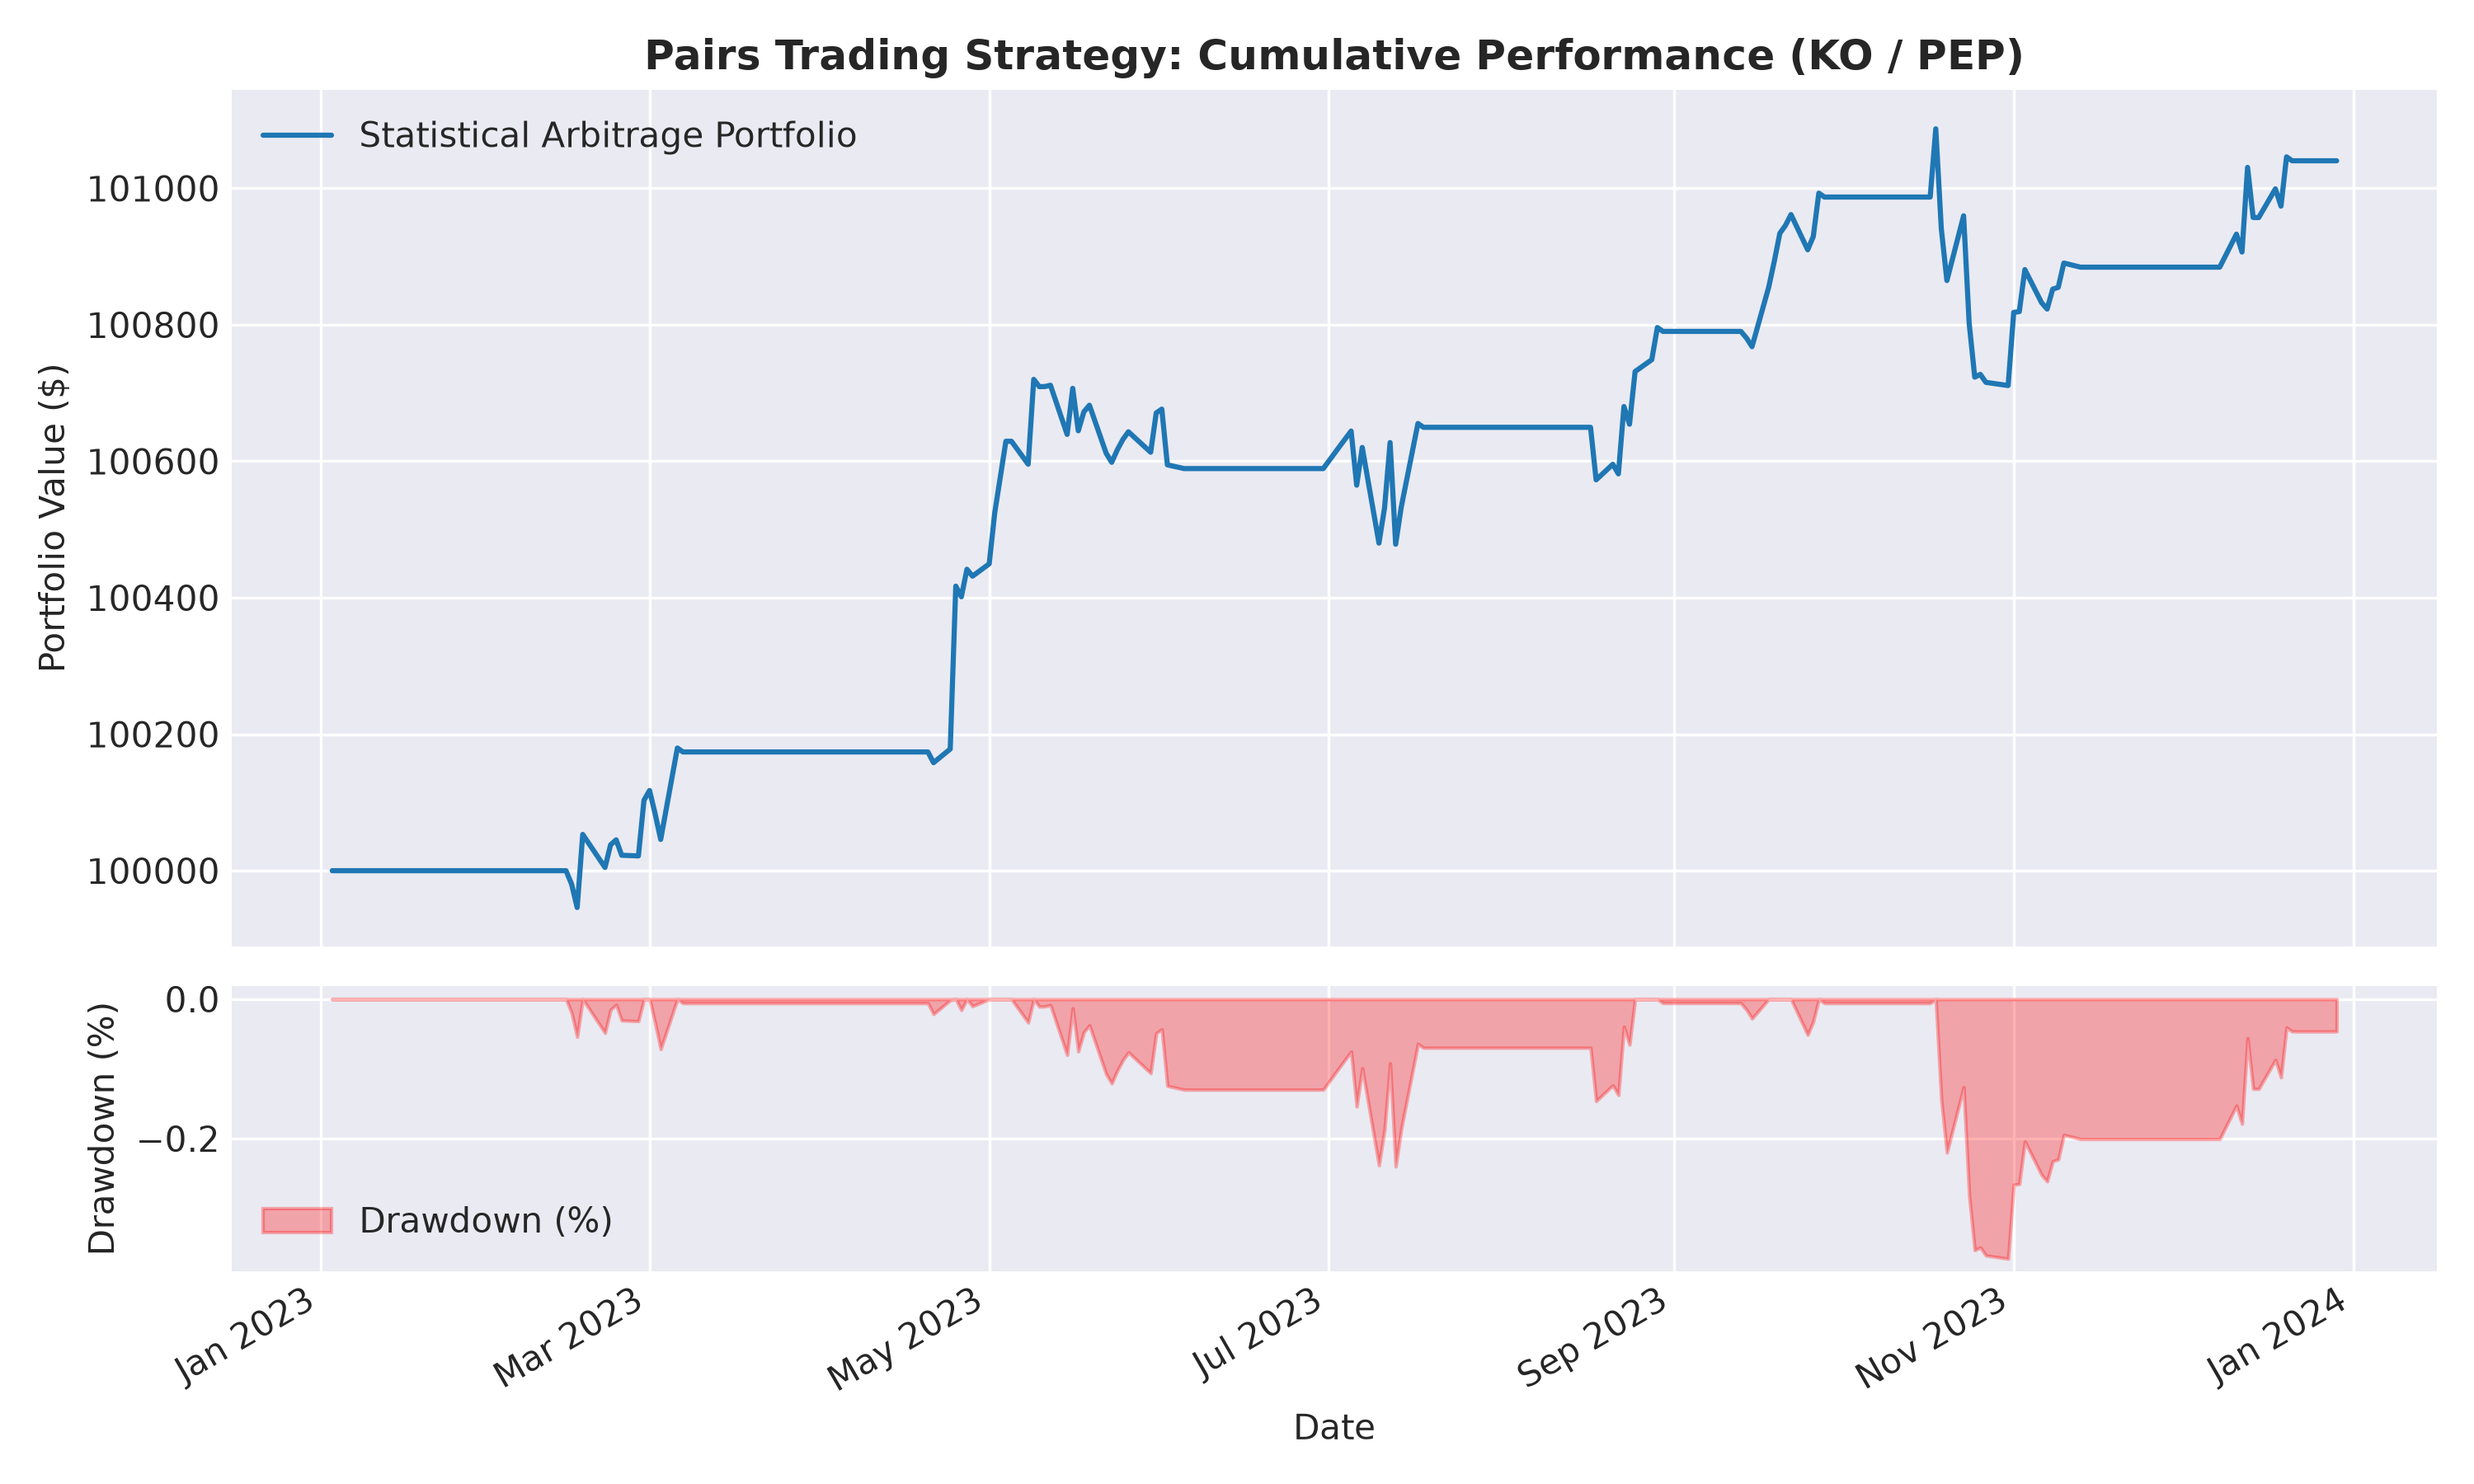
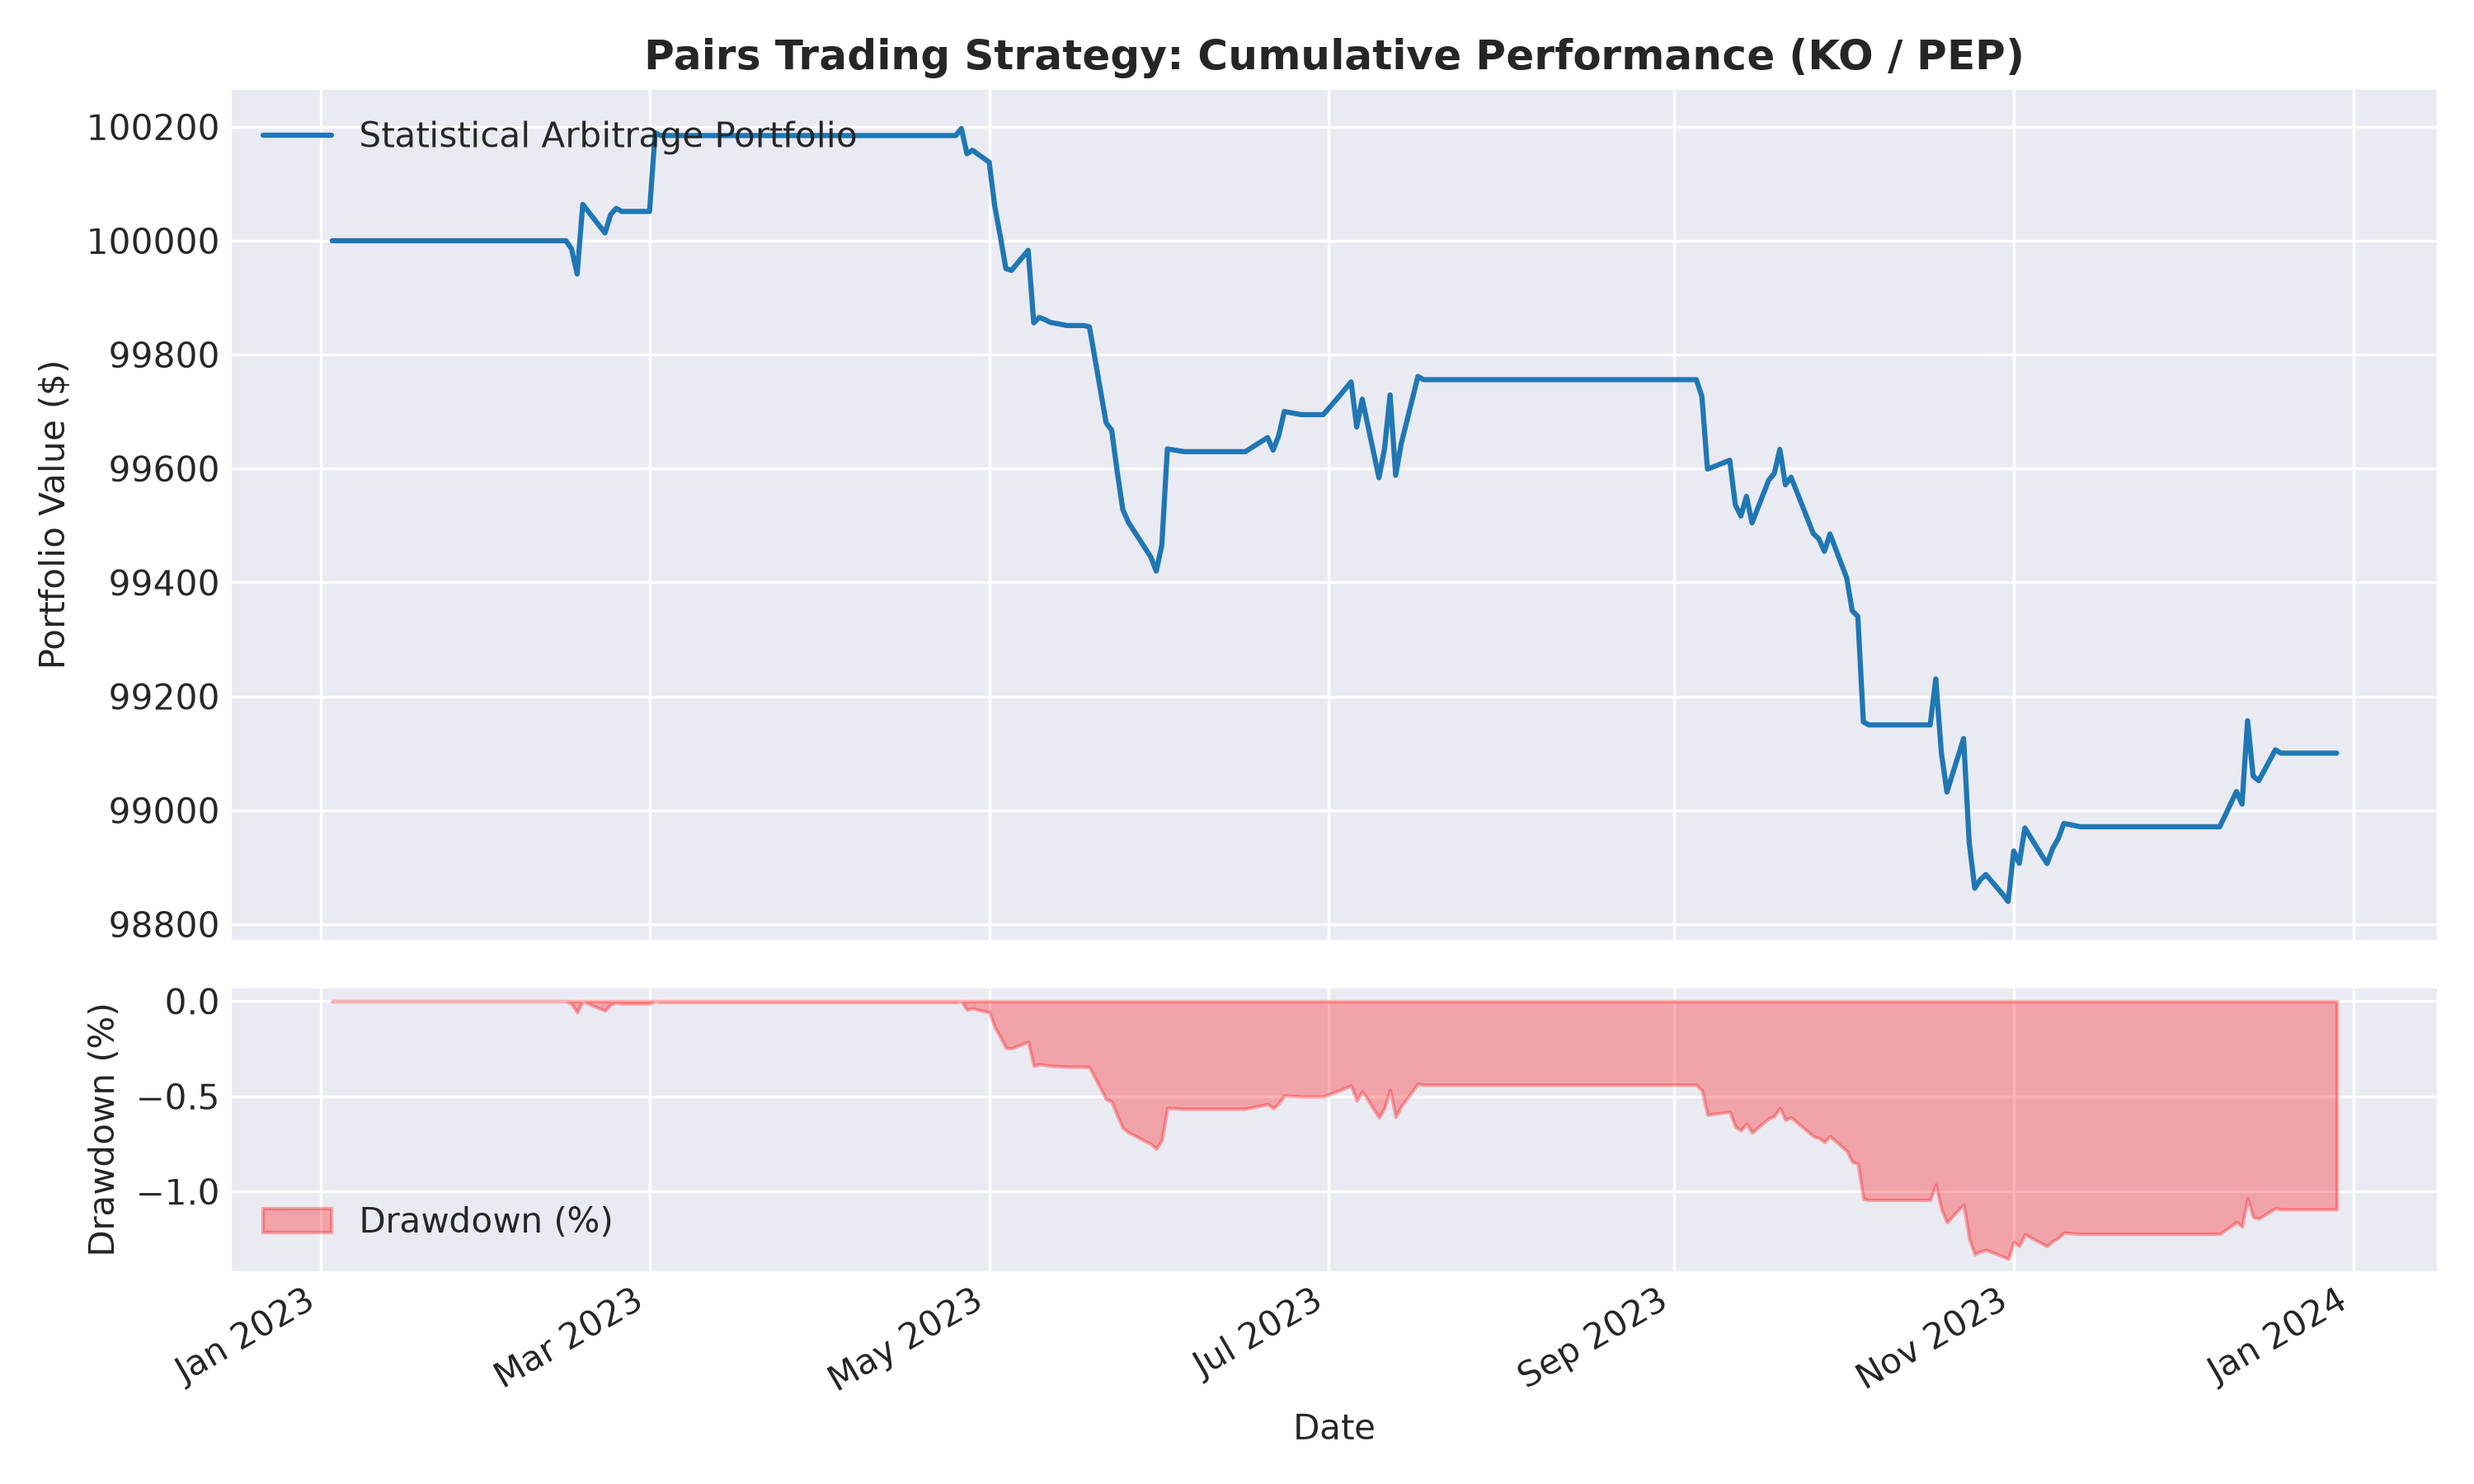
feat: integrate dynamic rolling OLS hedge ratio and short borrow accounting

diff --git a/strategy.py b/strategy.py
@@ -1,21 +1,11 @@
 import numpy as np
-import collections
-from dataclasses import dataclass
-from events import Event, MarketEvent
-
-@dataclass
-class SignalEvent(Event):
-    """Generated by the Strategy class to signal buy/sell orders."""
-    timestamp: str
-    symbol_pair: tuple
-    signal_type: str
-    z_score: float
-    type: str = "SIGNAL"
-
+import scipy.stats as stats
+from events import SignalEvent
 
 class PairsStatArbStrategy:
     """
-    Computes rolling Z-score between two assets (KO and PEP) and emits trading signals when thresholds are crossed.
+    Rolling OLS Dynamic Hedge Ratio Pairs Trading Strategy.
+    Calculates dynamic beta, spread, and rolling Z-score.
     """
     def __init__(self, events_queue, pair=('KO', 'PEP'), window=30, entry_z=2.0, exit_z=0.5):
         self.events_queue = events_queue
@@ -24,74 +14,62 @@ class PairsStatArbStrategy:
         self.entry_z = entry_z
         self.exit_z = exit_z
 
-        self.price_history = {pair[0]: collections.deque(maxlen=window),
-                              pair[1]: collections.deque(maxlen=window)}
+        self.price_history = {pair[0]: [], pair[1]: []}
+        self.history_timestamps = []
+        
         self.in_position = False
-        self.current_position = None  # 'LONG_PAIR' or 'SHORT_PAIR'
+        self.position_type = None  # 'LONG_PAIR' or 'SHORT_PAIR'
+        self.current_beta = 1.0
 
-    def calculate_signals(self, event: MarketEvent):
-        """Processes market data events to compute Z-Score and emit SignalEvents."""
-        if event.type != "MARKET":
-            return
+    def calculate_signals(self, market_event):
+        """Processes market data, calculates dynamic beta & spread Z-score, emits signals."""
+        for sym in self.pair:
+            if sym in market_event.data:
+                self.price_history[sym].append(market_event.data[sym]['close'])
+        
+        self.history_timestamps.append(market_event.timestamp)
 
-        # 1. Update price queues
-        for symbol in self.pair:
-            if symbol in event.data:
-                self.price_history[symbol].append(event.data[symbol]['close'])
-
-        # Wait until we have enough historical bars for rolling calculations
+        # Wait until we have enough lookback data
         if len(self.price_history[self.pair[0]]) < self.window:
             return
 
-        # 2. Calculate Spread (KO / PEP) and Z-Score
-        prices_a = np.array(self.price_history[self.pair[0]])
-        prices_b = np.array(self.price_history[self.pair[1]])
-        spreads = prices_a / prices_b
+        # Slice rolling window
+        prices_a = np.array(self.price_history[self.pair[0]][-self.window:])
+        prices_b = np.array(self.price_history[self.pair[1]][-self.window:])
 
-        current_spread = spreads[-1]
-        mean_spread = np.mean(spreads)
-        std_spread = np.std(spreads)
+        # 1. Rolling OLS Regression: Price_A = alpha + beta * Price_B
+        slope, intercept, _, _, _ = stats.linregress(prices_b, prices_a)
+        self.current_beta = slope
+
+        # 2. Compute Rolling Spread Series
+        spread_series = prices_a - (self.current_beta * prices_b)
+        current_spread = spread_series[-1]
+
+        # 3. Calculate Spread Rolling Mean & Std Dev
+        mean_spread = np.mean(spread_series)
+        std_spread = np.std(spread_series)
 
         if std_spread == 0:
             return
 
         z_score = (current_spread - mean_spread) / std_spread
+        timestamp = market_event.timestamp
 
-        # 3. Logic for Pair Entry & Exit Signals
+        # Signal Logic
         if not self.in_position:
-            if z_score > self.entry_z:
-                # Spread is too high -> Short asset A, Long asset B
-                signal = SignalEvent(
-                    timestamp=event.timestamp,
-                    symbol_pair=self.pair,
-                    signal_type="SHORT_PAIR",
-                    z_score=z_score
-                )
-                self.events_queue.put(signal)
+            if z_score <= -self.entry_z:
                 self.in_position = True
-                self.current_position = "SHORT_PAIR"
+                self.position_type = 'LONG_PAIR'
+                self.events_queue.put(SignalEvent(timestamp, self.pair, 'LONG_PAIR', z_score))
 
-            elif z_score < -self.entry_z:
-                # Spread is too low -> Long asset A, Short asset B
-                signal = SignalEvent(
-                    timestamp=event.timestamp,
-                    symbol_pair=self.pair,
-                    signal_type="LONG_PAIR",
-                    z_score=z_score
-                )
-                self.events_queue.put(signal)
+            elif z_score >= self.entry_z:
                 self.in_position = True
-                self.current_position = "LONG_PAIR"
+                self.position_type = 'SHORT_PAIR'
+                self.events_queue.put(SignalEvent(timestamp, self.pair, 'SHORT_PAIR', z_score))
 
         else:
-            # Mean Reversion Exit Check
+            # Exit on Mean Reversion
             if abs(z_score) < self.exit_z:
-                signal = SignalEvent(
-                    timestamp=event.timestamp,
-                    symbol_pair=self.pair,
-                    signal_type="EXIT",
-                    z_score=z_score
-                )
-                self.events_queue.put(signal)
                 self.in_position = False
-                self.current_position = None
+                self.position_type = None
+                self.events_queue.put(SignalEvent(timestamp, self.pair, 'EXIT', z_score))

diff --git a/portfolio.py b/portfolio.py
@@ -23,6 +23,11 @@ class Portfolio:
         
         self.equity_curve = []
 
+    def total_equity(self) -> float:
+        """Calculates total portfolio equity."""
+        position_value = sum(self.positions[sym] * self.latest_prices[sym] for sym in self.positions)
+        return self.current_cash + position_value
+
     def update_market_price(self, market_event):
         """Updates internal price cache, deducts daily borrow fees, and logs daily equity."""
         for symbol in market_event.data:
@@ -46,8 +51,8 @@ class Portfolio:
             "cash": self.current_cash
         })
 
-    def handle_signal(self, signal: SignalEvent):
-        """Translates strategy signals into market orders."""
+    def handle_signal(self, signal: SignalEvent, hedge_ratio: float = 1.0):
+        """Translates strategy signals into orders sized dynamically by hedge ratio (beta)."""
         stock_a, stock_b = signal.symbol_pair
         price_a = self.latest_prices[stock_a]
         price_b = self.latest_prices[stock_b]
@@ -55,8 +60,10 @@ class Portfolio:
         if price_a == 0 or price_b == 0:
             return
 
-        qty_a = int((self.allocation_per_trade / 2) / price_a)
-        qty_b = int((self.allocation_per_trade / 2) / price_b)
+        # Sizing Leg A based on capital allocation, sizing Leg B using dynamic beta
+        target_val_a = self.allocation_per_trade / 2.0
+        qty_a = max(1, int(target_val_a / price_a))
+        qty_b = max(1, int(qty_a * hedge_ratio))
 
         if signal.signal_type == "SHORT_PAIR":
             self.events_queue.put(OrderEvent(signal.timestamp, stock_a, "SELL", qty_a))
@@ -88,11 +95,6 @@ class Portfolio:
 
         self.total_commissions += fill.commission
         self.total_slippage += fill.slippage
-
-    def total_equity(self) -> float:
-        """Calculates total portfolio equity."""
-        position_value = sum(self.positions[sym] * self.latest_prices[sym] for sym in self.positions)
-        return self.current_cash + position_value
 
     def get_equity_df(self) -> pd.DataFrame:
         """Returns equity history as a DataFrame."""

diff --git a/main.py b/main.py
@@ -15,7 +15,7 @@ def run_backtest():
     portfolio = Portfolio(events, initial_capital=100000.0)
     execution = SimulatedExecutionHandler(events)
 
-    print("\n--- Running Stat-Arb Backtest with Transaction Friction ---\n")
+    print("\n--- Running Dynamic OLS Hedge Ratio Stat-Arb Backtest ---\n")
 
     while data_handler.stream_next_bar():
         while not events.empty():
@@ -26,8 +26,8 @@ def run_backtest():
                 strategy.calculate_signals(event)
 
             elif event.type == "SIGNAL":
-                print(f"[{event.timestamp}] SIGNAL: {event.signal_type} | Z: {event.z_score:.2f}")
-                portfolio.handle_signal(event)
+                print(f"[{event.timestamp}] SIGNAL: {event.signal_type} | Z: {event.z_score:.2f} | Beta: {strategy.current_beta:.4f}")
+                portfolio.handle_signal(event, hedge_ratio=strategy.current_beta)
 
             elif event.type == "ORDER":
                 execution.execute_order(event, portfolio.latest_prices)
@@ -50,7 +50,7 @@ def run_backtest():
     print(f"Total Commissions  : ${portfolio.total_commissions:,.2f}")
     print(f"Total Slippage     : ${portfolio.total_slippage:,.2f}")
     print(f"Total Borrow Fees  : ${portfolio.total_borrow_fees:,.2f}")
-    print(f"Gross Friction Impact: ${portfolio.total_commissions + portfolio.total_slippage + portfolio.total_borrow_fees:,.2f}")
+    print(f"Gross Friction     : ${portfolio.total_commissions + portfolio.total_slippage + portfolio.total_borrow_fees:,.2f}")
     print("=================================================================")
 
 if __name__ == "__main__":
